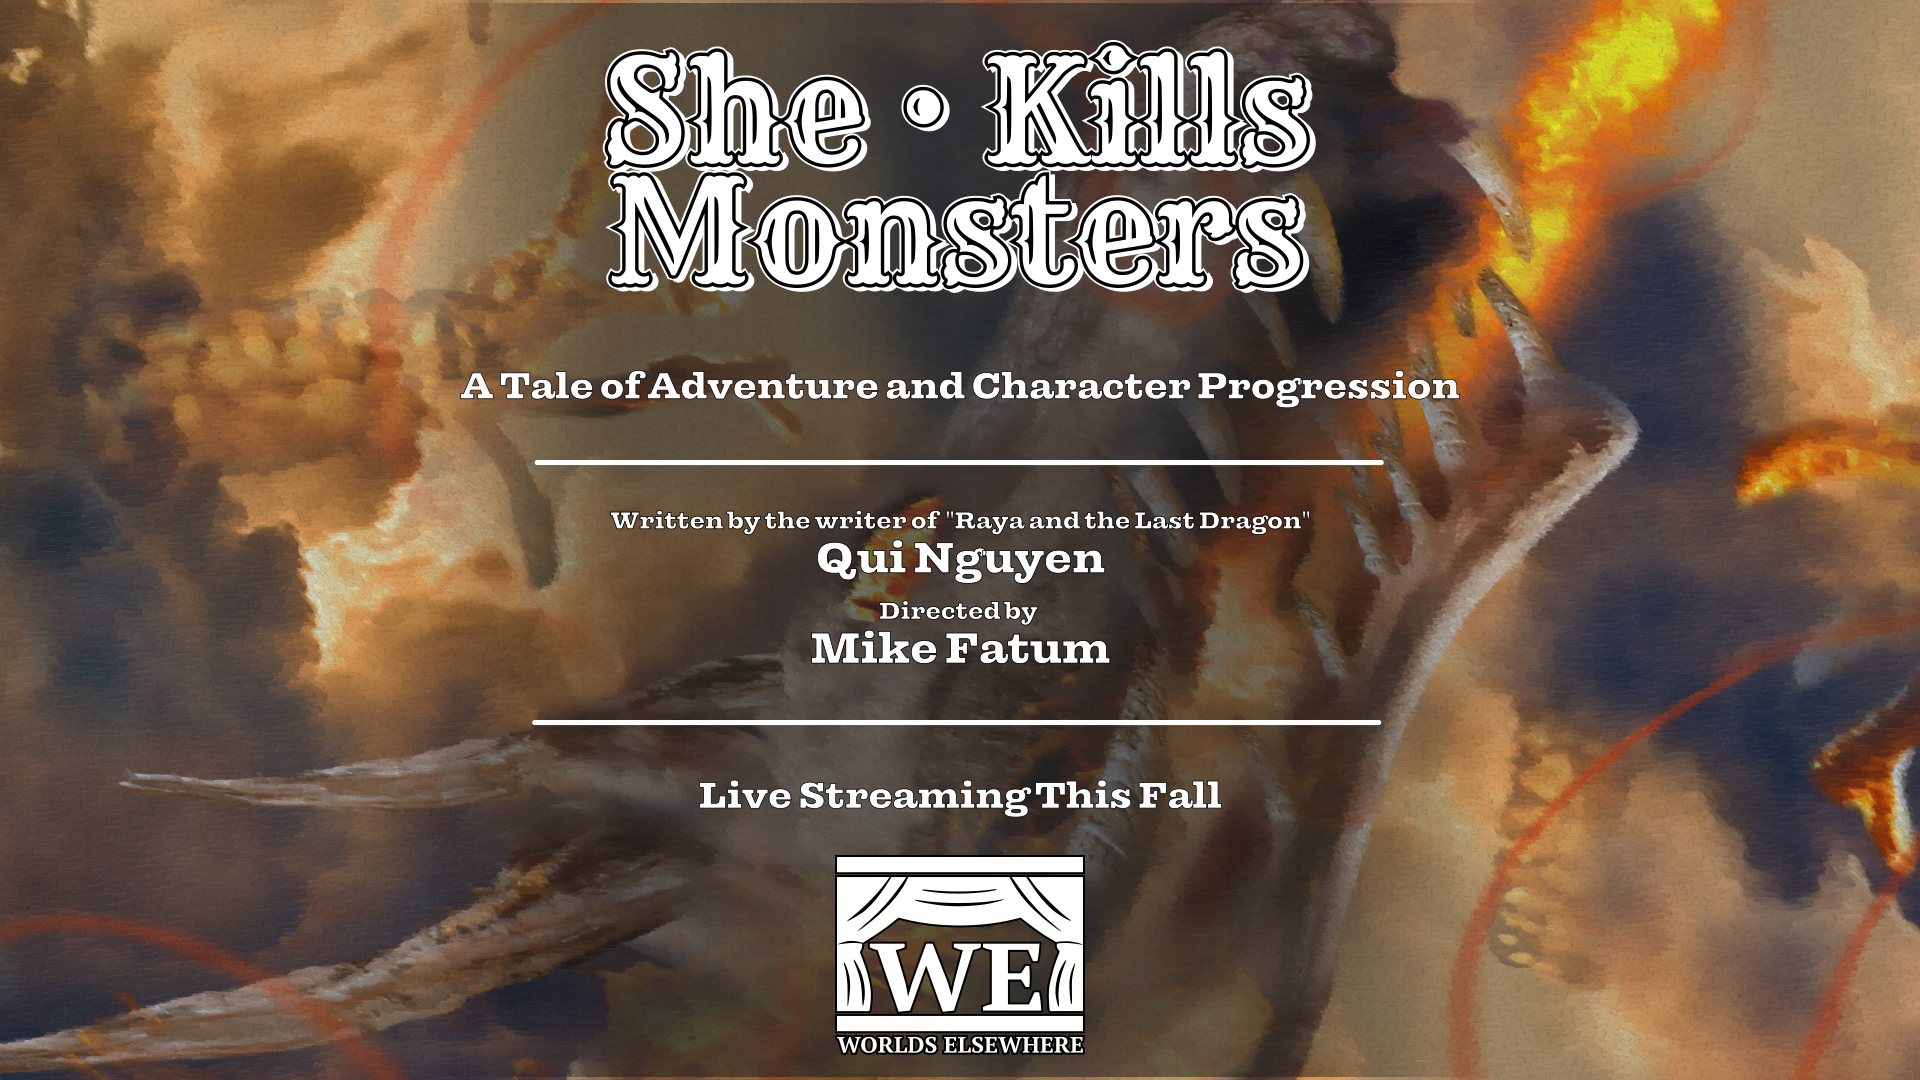
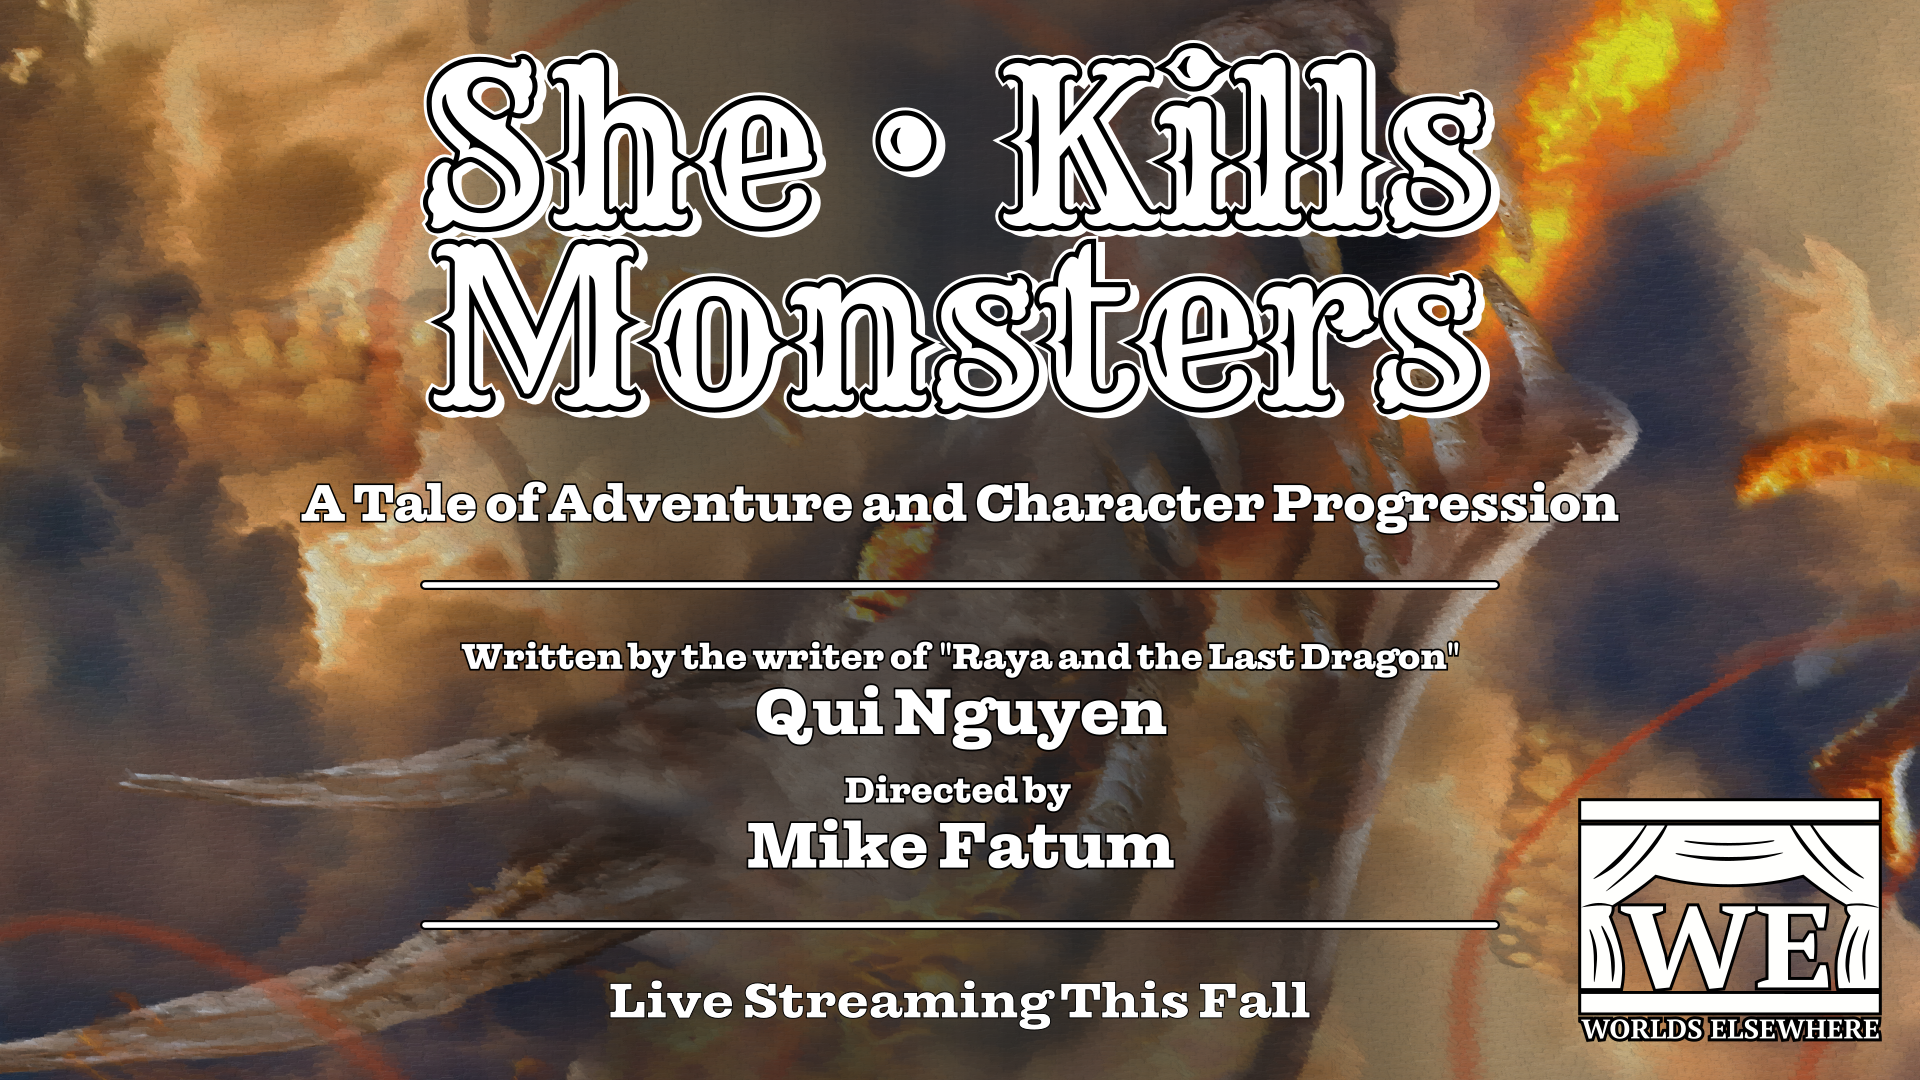
Update SKM homepage Promo

Changed region(s): [[0.1562, 0.4278, 0.8438, 1.0], [0.2188, 0.0306, 0.7812, 0.3972], [0.8125, 0.7333, 1.0, 0.9778]]

diff --git a/_src/sass/layout.scss b/_src/sass/layout.scss
@@ -36,7 +36,7 @@ main {
     text-align: center;
 
     img {
-        max-width: min(100%, 650px);
+        max-width: min(100%, 960px);
     }
 }
 

diff --git a/index.md b/index.md
@@ -5,7 +5,8 @@ highlight:
     program: /shows/2021.10/she-kills-monsters
     promo: "Directed by **Mike Fatum**, Worlds Elsewhere Theatre Company is proud to announce our Fall 2021 Charity Stream, benefitting **Trans Lifeline** and **Mermaids UK**.\n\n
         **She Kills Monsters** is a comedic romp into the world of fantasy role-playing games. In this high-octane dramatic comedy laden with homicidal fairies, nasty ogres, and 90s pop culture, acclaimed playwright **Qui Nguyen** (\"Raya and the Last Dragon\") offers a heart-pounding homage to the geek and warrior within us all.\n\n
-        This show will be exclusively for attendees and will **not** be made available as video-on-demand after the performance dates. More details coming soon!"
+        More details coming soon!\n\n
+        <aside><h5><i drama>Exclusively Live</i></h5>\n\nThis show will be exclusively for attendees and will **not** be made available as video-on-demand after the performance dates.\n\n</aside>"
     times:
         - { start: 2021-10-23 19:00 -05:00 }
         - { text: "Restream", start: 2021-10-30 19:00 -5:00 }
@@ -20,20 +21,18 @@ highlight:
 
 {% if page.highlight and page.highlight.title %}
 
-## Upcoming Performance: <br>
+## Upcoming Performance: {% if page.highlight.yt-id -%}
 
-{%- if page.highlight.yt-id -%}
     [<i yt>{{page.highlight.title}}</i>][highlight-yt-stream]
 {%- else %}{% if page.highlight.program -%}
-    **[{{page.highlight.title}}][highlight-program]**
+    [{{page.highlight.title}}][highlight-program]
 {%- else -%}
-    **{{page.highlight.title}}**
+    {{page.highlight.title}}
 {%- endif %}{% endif %}
 
 {% if page.highlight.program and page.highlight.banner %}[![{{page.highlight.title}} Banner]({{page.highlight.banner}})][highlight-program] <br>
 {%- else %}{% if page.highlight.banner %}![{{page.highlight.title}} Banner]({{page.highlight.banner}}) <br>
 {%- endif %}{% endif %}
-{% if page.highlight.program %}[Program][highlight-program]{% if page.highlight.program and page.highlight.yt-id %} &bull; {% endif %}{% endif %}{% if page.highlight.yt-id %}**[<i yt>Youtube Stream</i>][highlight-yt-stream]**{% endif %}
 
 {% for showtime in page.highlight.times %}
 **{{ showtime.text | default: "Date"}}:** {%include ts.html ts=showtime.start t="dt" %} (US Eastern Time) {% unless forloop.last %}<br>{% endunless -%}

diff --git a/shows/2021.10/she-kills-monsters.md b/shows/2021.10/she-kills-monsters.md
@@ -4,8 +4,9 @@ textlogo: /assets/img/shows/2021.10/she-kills-monsters/logo.png
 banner: false
 program: /shows/2021.10/she-kills-monsters
 promo: "Directed by **Mike Fatum**, Worlds Elsewhere Theatre Company is proud to announce our Fall 2021 Charity Stream, benefitting **Trans Lifeline** and **Mermaids UK**.\n\n
-        **She Kills Monsters** is a comedic romp into the world of fantasy role-playing games. In this high-octane dramatic comedy laden with homicidal fairies, nasty ogres, and 90s pop culture, acclaimed playwright **Qui Nguyen** (\"Raya and the Last Dragon\") offers a heart-pounding homage to the geek and warrior within us all.\n\n
-        This show will be exclusively for attendees and will **not** be made available as video-on-demand after the performance dates. More details coming soon!"
+    **She Kills Monsters** is a comedic romp into the world of fantasy role-playing games. In this high-octane dramatic comedy laden with homicidal fairies, nasty ogres, and 90s pop culture, acclaimed playwright **Qui Nguyen** (\"Raya and the Last Dragon\") offers a heart-pounding homage to the geek and warrior within us all.\n\n
+        More details coming soon!\n\n
+    <aside><h5><i drama>Exclusively Live</i></h5>\n\nThis show will be exclusively for attendees and will **not** be made available as video-on-demand after the performance dates.</aside>"
 times:
     - { start: 2021-10-23 19:00 -05:00 }
     - { text: "Restream", start: 2021-10-30 19:00 -5:00 }
